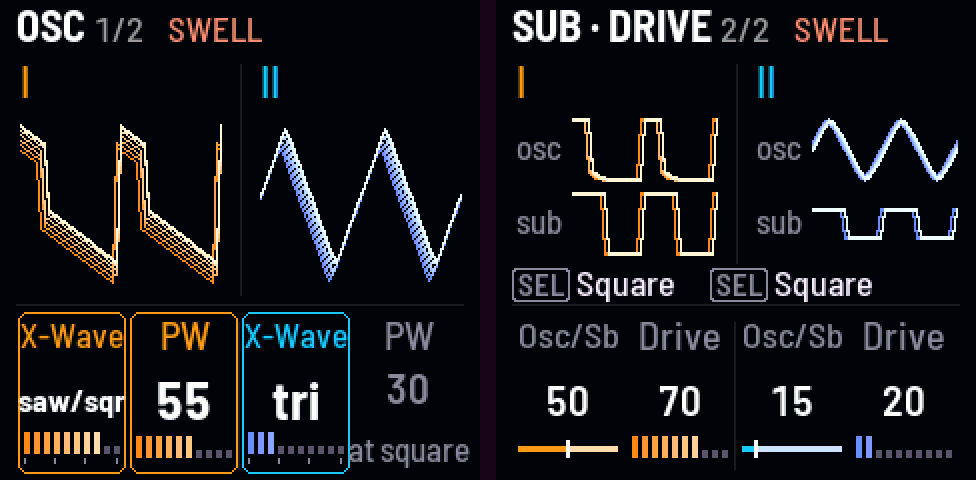
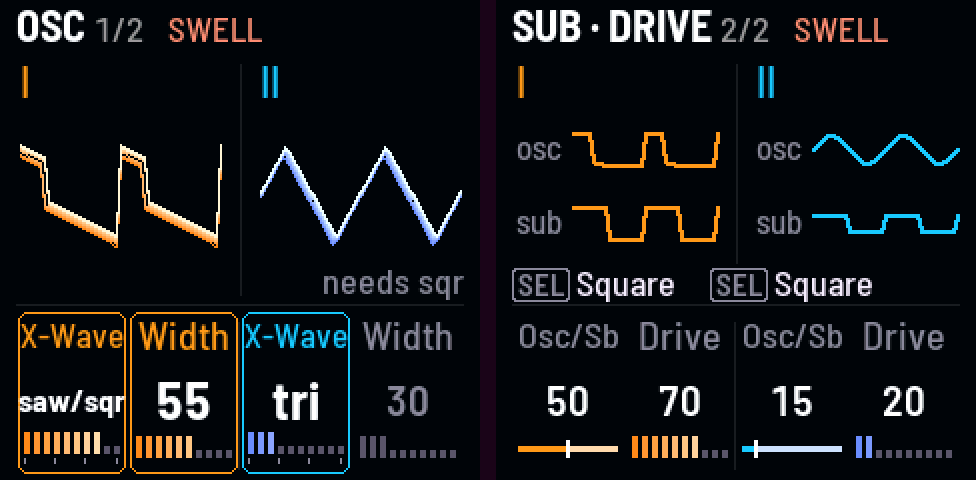
0.3's new look: Osc and Sub · Drive fixes from the FM-1
Osc: the waves two-thirds as tall, the strands 1 px apart (they looked like
a deep block). PW is now Width; while the wave has no square, its value and
meter go grey and "needs sqr" sits on the rule above it, clear of the meters
("at square" was wider than its column). Sub · Drive: each lane's wave half
its lane, one 2 px line in the drone's colour instead of six strands.
The sound is unchanged (same_samples: 90 same, only these screens differ).

diff --git a/web/emu/index.html b/web/emu/index.html
@@ -426,7 +426,7 @@ kbd { font: 500 .85em var(--mono); background: var(--card); border: 1px solid va
       <div class="pblock">
         <div class="g-btn">EDIT</div>
         <div class="pstack">
-        <div class="g-page"><i>Osc</i><span class="k d1"><span class="sr">Knob 1, drone I: </span>X‑Wave<small>sine → square</small></span><span class="k d1"><span class="sr">Knob 2, drone I: </span>PW<small>square width</small></span><span class="k d2"><span class="sr">Knob 3, drone II: </span>X‑Wave<small>sine → square</small></span><span class="k d2"><span class="sr">Knob 4, drone II: </span>PW<small>square width</small></span></div>
+        <div class="g-page"><i>Osc</i><span class="k d1"><span class="sr">Knob 1, drone I: </span>X‑Wave<small>sine → square</small></span><span class="k d1"><span class="sr">Knob 2, drone I: </span>Width<small>pulse width</small></span><span class="k d2"><span class="sr">Knob 3, drone II: </span>X‑Wave<small>sine → square</small></span><span class="k d2"><span class="sr">Knob 4, drone II: </span>Width<small>pulse width</small></span></div>
         <div class="g-page"><i>Sub · Drive</i><span class="k d1"><span class="sr">Knob 1, drone I: </span>Osc/Sub<small>osc ↔ sub · + SEL: sub wave</small></span><span class="k d1"><span class="sr">Knob 2, drone I: </span>Drive</span><span class="k d2"><span class="sr">Knob 3, drone II: </span>Osc/Sub<small>osc ↔ sub · + SEL: sub wave</small></span><span class="k d2"><span class="sr">Knob 4, drone II: </span>Drive</span></div>
         </div>
       </div>

diff --git a/firmware/src/app/look.c b/firmware/src/app/look.c
@@ -238,6 +238,21 @@ static void lk_sel_tag(int col, const char *job, int held)
     cv_text(x + tw + 3, ty + LK_B(LK_F_SEL) + 1 - LK_B(LK_F_SMALL), &LK_F_SMALL, job, LK_INK);
 }
 
+/* why a knob does nothing heard ("needs sqr"), grey on the rule above its name, in its drone's half (Evan,
+ * 2026-11-02: clear of the meters; its value and meter grey too) */
+static void lk_why_tag(int col, const char *why)
+{
+    const int32_t w = text_w(&LK_F_SMALL, why), ty = LK_PIC_H - (int32_t)LK_F_SMALL.h - 1, cx = 8 + 56 * col + 28;
+    const int32_t lo = col < 2 ? 8 : 122, hi = col < 2 ? 118 : 232;
+    int32_t x = cx - w / 2;
+    if (x + w > hi)
+        x = hi - w;
+    if (x < lo)
+        x = lo;
+    cv_rect(x - 3, ty, w + 6, LK_PIC_H - ty, LK_BG);
+    cv_text(x, ty, &LK_F_SMALL, why, LK_LABEL);
+}
+
 /* an up or down arrow, 2 px, its foot on the baseline (the fonts have none) */
 static void lk_arrow(int32_t x, int32_t base, int32_t h, int up, uint16_t c)
 {
@@ -380,8 +395,10 @@ static void lk_pic_drones2(void)
 }
 
 /* ----------------------------------------------------- Osc's picture --- */
-/* each drone's wave as six offset strands, each a little lower and a touch later: X-Wave morphs it sine, triangle,
- * saw, square; PW changes it only near square, as it does the sound */
+/* each drone's wave as six strands, each 1 px lower and a touch later: X-Wave morphs it sine, triangle, saw, square;
+ * Width changes it only near square, as it does the sound. Two-thirds of the picture's height (Evan, 2026-11-02) */
+static const char *lk_unheard(int p);
+
 static void lk_pic_osc(void)
 {
     const int32_t top = 2 + (int32_t)LK_F_DRONE.h + 4, half = (LK_PIC_H - top - 16) / 2;
@@ -392,13 +409,13 @@ static void lk_pic_osc(void)
         const int x = gpar(g, GP_WAVE);
         const float pw = pw_of(g);
         for (j = 0; j < LK_STRANDS; j++) {
-            const int32_t yc = top + half + 2 * (LK_STRANDS - 1 - j);
-            const float ph0 = 0.012f * (float)(LK_STRANDS - 1 - j);
+            const int32_t yc = top + half + (LK_STRANDS - 1 - j) - 2;
+            const float ph0 = 0.005f * (float)(LK_STRANDS - 1 - j);
             int16_t y[51];
             for (i = 0; i <= 50; i++) {
                 float ph = ph0 + 2.0f * (float)i / 50.0f;
                 ph -= (float)(int)ph;
-                y[i] = (int16_t)(yc - (int32_t)(xwave_at(x, pw, ph) * (float)half * 0.9f));
+                y[i] = (int16_t)(yc - (int32_t)(xwave_at(x, pw, ph) * (float)half * 0.6f));
             }
             if (j == LK_STRANDS - 1)           /* the newest 2 px, the older ones a line each: strands, not a band */
                 lk_plot(x0, y, 51, lk_ramp(g, 1.0f));
@@ -407,13 +424,19 @@ static void lk_pic_osc(void)
                     cv_line(x0 + 2 * (i - 1), y[i - 1], x0 + 2 * i, y[i], lk_ramp(g, (float)j / (float)(LK_STRANDS - 1)));
         }
     }
+    for (i = 0; i < 4; i++) {                  /* Width without a square in the wave: why, above it */
+        const int p = knob_param(i);
+        const char *why = p < 0 || (ui.btn >> B_SEL & 1u) ? 0 : lk_unheard(p);
+        if (why)
+            lk_why_tag(i, why);
+    }
 }
 
 /* ------------------------------------------------ Sub · Drive's picture --- */
 /* two lanes a drone, like two mixer channels: "osc" the oscillators' wave, "sub" the sub's (the wave SEL + Osc/Sub
  * picks), each as large as its share of the equal-power crossfade (the engine's sqrt(1 - mix), sqrt(mix)), then the
  * drive's soft clip as the engine's (drv = 0.5 * 2^(drive / 20), tanh(drv x) / tanh(drv)): the peaks stay, the shape
- * fattens. Six strands, a touch later each */
+ * fattens. One line a lane, 2 px across its edges too (Evan, 2026-11-02: the drawings are small) */
 static float lk_sub_at(int w, float ph)        /* the sub's waves: Square, Sine, Triangle, Saw */
 {
     switch (w) {
@@ -427,8 +450,8 @@ static float lk_sub_at(int w, float ph)        /* the sub's waves: Square, Sine,
 static void lk_pic_source(void)
 {
     const int32_t top = 2 + (int32_t)LK_F_DRONE.h + 2, bot = LK_PIC_H - (int32_t)LK_F_SEL.h - 6;   /* over the tags */
-    const int32_t lane = (bot - top) / 2, amp = lane / 2 - 2;
-    int g, j, i, k;
+    const int32_t lane = (bot - top) / 2, amp = lane / 4;   /* half its lane (Evan, 2026-11-02) */
+    int g, i, k;
     lk_halves();
     for (g = 0; g < DR_NGROUPS; g++) {
         const int32_t x0 = g ? 130 : 10;
@@ -439,16 +462,16 @@ static void lk_pic_source(void)
         for (k = 0; k < 2; k++) {              /* osc above, sub below */
             const int32_t yc = top + lane * k + lane / 2;
             cv_text(x0, yc - (int32_t)LK_F_TAG.h / 2, &LK_F_TAG, k ? "sub" : "osc", LK_LABEL);
-            for (j = 0; j < LK_STRANDS; j++) {  /* the wave after its lane's name */
-                const float ph0 = 0.012f * (float)(LK_STRANDS - 1 - j);
+            {                                  /* the wave after its lane's name */
                 int16_t y[37];
                 for (i = 0; i <= 36; i++) {
-                    float ph = ph0 + 2.0f * (float)i / 36.0f, v;
+                    float ph = 2.0f * (float)i / 36.0f, v;
                     ph -= (float)(int)ph;
                     v = share[k] * (k ? lk_sub_at(sw, ph) : xwave_at(x, pw, ph));
                     y[i] = (int16_t)(yc - (int32_t)(fm_tanhf(drv * v) / td * (float)amp));
                 }
-                lk_plot(x0 + 28, y, 37, lk_ramp(g, (float)j / (float)(LK_STRANDS - 1)));
+                lk_plot(x0 + 28, y, 37, LK_DRONE[g]);
+                lk_plot(x0 + 29, y, 37, LK_DRONE[g]);
             }
         }
     }
@@ -566,11 +589,11 @@ static void lk_text(int p, int v, char *t)
     }
 }
 
-/* a knob that does nothing heard just now, and why: PW without a square in the wave */
+/* a knob that does nothing heard just now, and why: Width (the pulse width) without a square in the wave */
 static const char *lk_unheard(int p)
 {
     if (p < P_XMOD && p % GP_N == GP_WIDTH && gpar(p / GP_N, GP_WAVE) < 70)
-        return "at square";
+        return "needs sqr";
     return 0;
 }
 
@@ -651,7 +674,7 @@ static void lk_values(void)
                                                                  * edges (a note and its cents, "Ab3 +17"); else 16 */
                     break;
             }
-            y = 9 + (int32_t)FONT_T20.h + (62 - (int32_t)FONT_T20.h - (int32_t)fb->h) / 2 - (why ? 6 : 0);
+            y = 9 + (int32_t)FONT_T20.h + (62 - (int32_t)FONT_T20.h - (int32_t)fb->h) / 2;
             cv_text(cx - (wb + ws) / 2, y, fb, big, why ? LK_LABEL : LK_WHITE);
             if (ws)
                 cv_text(cx - (wb + ws) / 2 + wb + sep, y + (int32_t)(fb->h - fs->h) - 2, fs, unit,
@@ -660,9 +683,7 @@ static void lk_values(void)
         {   /* the meter, the page's kind */
             const int gp = p < P_XMOD ? p % GP_N : -1;
             const float frac = hi > lo ? (float)(v - lo) / (float)(hi - lo) : 0.0f;
-            if (why)                           /* nothing heard: why, in the meter's place */
-                text_c(cx, 64, &FONT_Q17, why, LK_LABEL);
-            else if (second)
+            if (second)
                 lk_one_of(cx, 70, DR_NSUBW, v, g);
             else if (gp == GP_MIX)
                 lk_xfader(cx, 70, frac, g);
@@ -670,7 +691,7 @@ static void lk_values(void)
                 lk_stripes(cx, 64, frac, g, 0);
                 lk_ticks4(cx, 77);
             } else if (gp == GP_WIDTH || gp == GP_DRIVE)
-                lk_stripes(cx, 66, frac, g, 0);
+                lk_stripes(cx, 66, frac, g, why != 0);   /* grey with its value when unheard */
             else
                 lk_dots(cx, 70, frac, g, gp == GP_RESO);
         }

diff --git a/firmware/src/dsp/drone.c b/firmware/src/dsp/drone.c
@@ -23,7 +23,7 @@ static const char *const INTERVAL_NAME[DR_NINTERVALS] = {"-Oct", "-5th", "-5th j
 
 /* ------------------------------------------------------------ parameters --- */
 #define VOICE_PARAMS(pitch, wave, ival, mix, cut, level, olfo, flfo, fdep)                                           \
-    {"Pitch", DR_PITCH_LO, DR_PITCH_HI, pitch}, {"X-Wave", 0, 100, wave}, {"PW", 0, 100, 30},               \
+    {"Pitch", DR_PITCH_LO, DR_PITCH_HI, pitch}, {"X-Wave", 0, 100, wave}, {"Width", 0, 100, 30},               \
         {"Interval", 0, DR_NINTERVALS - 1, ival}, {"Detune", 0, 100, 12}, {"Osc/Sub", 0, 100, mix},            \
         {"Sub oct", 1, 6, 1}, {"Cutoff", 0, 1000, cut}, {"Reso", 0, 1000, 250}, {"Mode", DR_LP, DR_HP, DR_LP},    \
         {"Drive", 0, 100, 20}, {"Level", 0, 100, level}, {"Partner", 0, 1, 1},                                 \

diff --git a/README.md b/README.md
@@ -272,12 +272,12 @@ glides: a slow turn is a smooth sweep, never steps; turn faster to go further. T
 
 | Page | KNOB 1 | KNOB 2 | KNOB 3 | KNOB 4 |
 |---|---|---|---|---|
-| Osc | I X-Wave | I PW (pulse width) | II X-Wave | II PW |
+| Osc | I X-Wave | I Width (pulse width) | II X-Wave | II Width |
 | Sub · Drive | I osc/sub (+ SEL: sub wave) | I drive | II osc/sub (+ SEL: sub wave) | II drive |
 
-- **X-Wave** blends sine → triangle → saw → square; **PW** is the square's pulse width. The sine and the triangle are a
+- **X-Wave** blends sine → triangle → saw → square; **Width** is the square's pulse width. The sine and the triangle are a
   little louder than the saw, so they still carry on a small speaker, and the square a little quieter, level with the
-  saw there. Without a square in the wave, PW does nothing: its value goes grey, "at square" under it.
+  saw there. Without a square in the wave, Width does nothing: its value and meter go grey, "needs sqr" above it.
 - **Osc/Sub** crossfades the oscillators with the sub (the knob reads "Osc/Sb"); **drive** pushes each drone into its filter.
   The picture shows each drone's two lanes, **osc** and **sub**, each as loud as its share of the crossfade, shaped by
   the drive.
